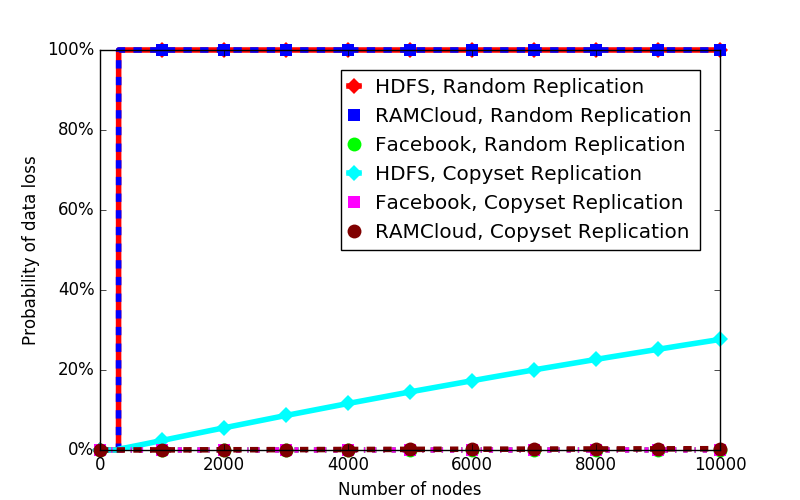
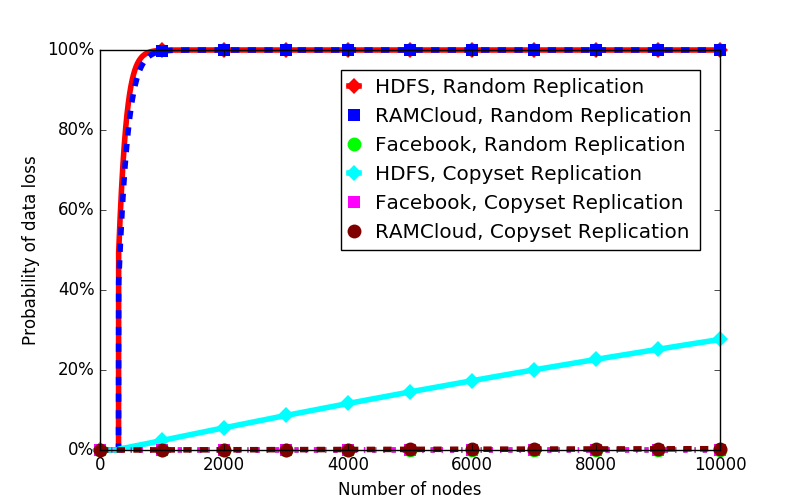
Fixed random replication computation bug
Was accidentally multiplying by numNodes twice in exponent

diff --git a/Replication.py b/Replication.py
@@ -18,8 +18,7 @@ class ReplicationScheme(object):
       failedCombos = scipy.misc.comb(numFailedNodes, replicationFactor)
       totalCombos = scipy.misc.comb(numNodes, replicationFactor)
       probOfLosingChunk = failedCombos / totalCombos
-      numChunks = numNodes * chunksPerNode
-      probOfDataLoss = 1.0 - (1.0 - probOfLosingChunk) ** (numNodes * numChunks)
+      probOfDataLoss = 1.0 - (1.0 - probOfLosingChunk) ** (numNodes * chunksPerNode)
 
       return probOfDataLoss
 
